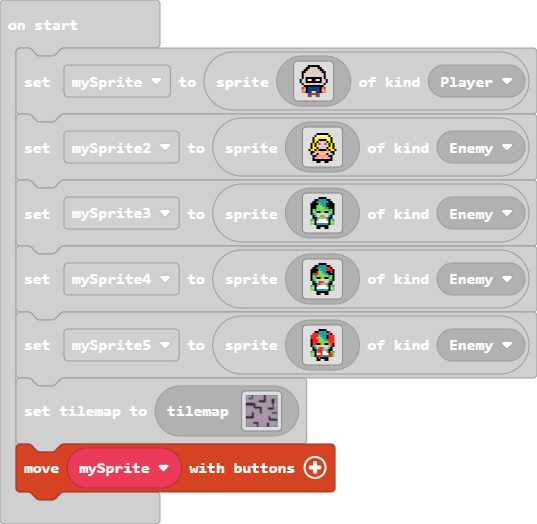
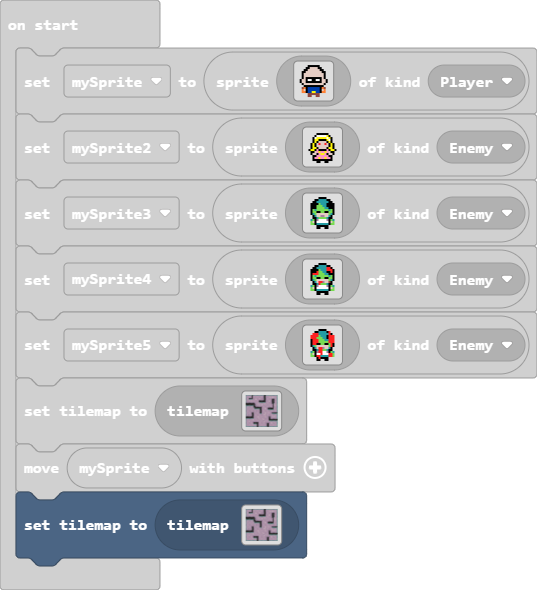
Update main.blocks, main.ts, tilemap.g.jres, tilemap.g.ts

diff --git a/tilemap.g.ts b/tilemap.g.ts
@@ -69,6 +69,44 @@ namespace myTiles {
 2.............22...........22..........2
 2222222222222222222222222222222222222222
 `, [myTiles.transparency16,sprites.dungeon.greenOuterWest1,sprites.dungeon.greenOuterSouthEast,sprites.dungeon.greenOuterSouth0,sprites.dungeon.greenOuterSouthWest,sprites.dungeon.greenOuterEast0,sprites.dungeon.greenOuterNorthEast,sprites.dungeon.greenOuterNorth0,sprites.dungeon.greenOuterNorthWest,sprites.dungeon.floorDark0,sprites.dungeon.floorDark3,sprites.dungeon.floorDark2,sprites.dungeon.floorDark1,sprites.dungeon.floorDark4,sprites.dungeon.floorDark5,sprites.dungeon.floorDarkDiamond,sprites.dungeon.greenOuterNorth2,sprites.dungeon.greenOuterWest2,sprites.dungeon.greenOuterEast2,myTiles.tile1,sprites.dungeon.floorMixed], TileScale.Sixteen);
+            case "level3":
+            case "level3":return tiles.createTilemap(hex`1000100000000000000000000000000000000000000000000000000000000000000000000000000000000000000000000000000000000000000000000000000000000000000000000000000000000000000000000000000000000000000000000000000000000000000000000000000000000000000000000000000000000000000000000000000000000000000000000000000000000000000000000000000000000000000000000000000000000000000000000000000000000000000000000000000000000000000000000000000000000000000000000000000000000000000000000000000000000000000000000000000000000000000000000000000000000000`, img`
+. . . . . . . . . . . . . . . . 
+. . . . . . . . . . . . . . . . 
+. . . . . . . . . . . . . . . . 
+. . . . . . . . . . . . . . . . 
+. . . . . . . . . . . . . . . . 
+. . . . . . . . . . . . . . . . 
+. . . . . . . . . . . . . . . . 
+. . . . . . . . . . . . . . . . 
+. . . . . . . . . . . . . . . . 
+. . . . . . . . . . . . . . . . 
+. . . . . . . . . . . . . . . . 
+. . . . . . . . . . . . . . . . 
+. . . . . . . . . . . . . . . . 
+. . . . . . . . . . . . . . . . 
+. . . . . . . . . . . . . . . . 
+. . . . . . . . . . . . . . . . 
+`, [myTiles.transparency16], TileScale.Sixteen);
+            case "level4":
+            case "level4":return tiles.createTilemap(hex`1000100000000000000000000000000000000000000000000000000000000000000000000000000000000000000000000000000000000000000000000000000000000000000000000000000000000000000000000000000000000000000000000000000000000000000000000000000000000000000000000000000000000000000000000000000000000000000000000000000000000000000000000000000000000000000000000000000000000000000000000000000000000000000000000000000000000000000000000000000000000000000000000000000000000000000000000000000000000000000000000000000000000000000000000000000000000000`, img`
+. . . . . . . . . . . . . . . . 
+. . . . . . . . . . . . . . . . 
+. . . . . . . . . . . . . . . . 
+. . . . . . . . . . . . . . . . 
+. . . . . . . . . . . . . . . . 
+. . . . . . . . . . . . . . . . 
+. . . . . . . . . . . . . . . . 
+. . . . . . . . . . . . . . . . 
+. . . . . . . . . . . . . . . . 
+. . . . . . . . . . . . . . . . 
+. . . . . . . . . . . . . . . . 
+. . . . . . . . . . . . . . . . 
+. . . . . . . . . . . . . . . . 
+. . . . . . . . . . . . . . . . 
+. . . . . . . . . . . . . . . . 
+. . . . . . . . . . . . . . . . 
+`, [myTiles.transparency16], TileScale.Sixteen);
         }
         return null;
     })

diff --git a/main.ts b/main.ts
@@ -5,3 +5,4 @@ let mySprite4 = sprites.create(assets.image`Zombie2`, SpriteKind.Enemy)
 let mySprite5 = sprites.create(assets.image`Zombie3`, SpriteKind.Enemy)
 tiles.setCurrentTilemap(tilemap`Bosslevel`)
 controller.moveSprite(mySprite)
+tiles.setCurrentTilemap(tilemap`Bosslevel`)
